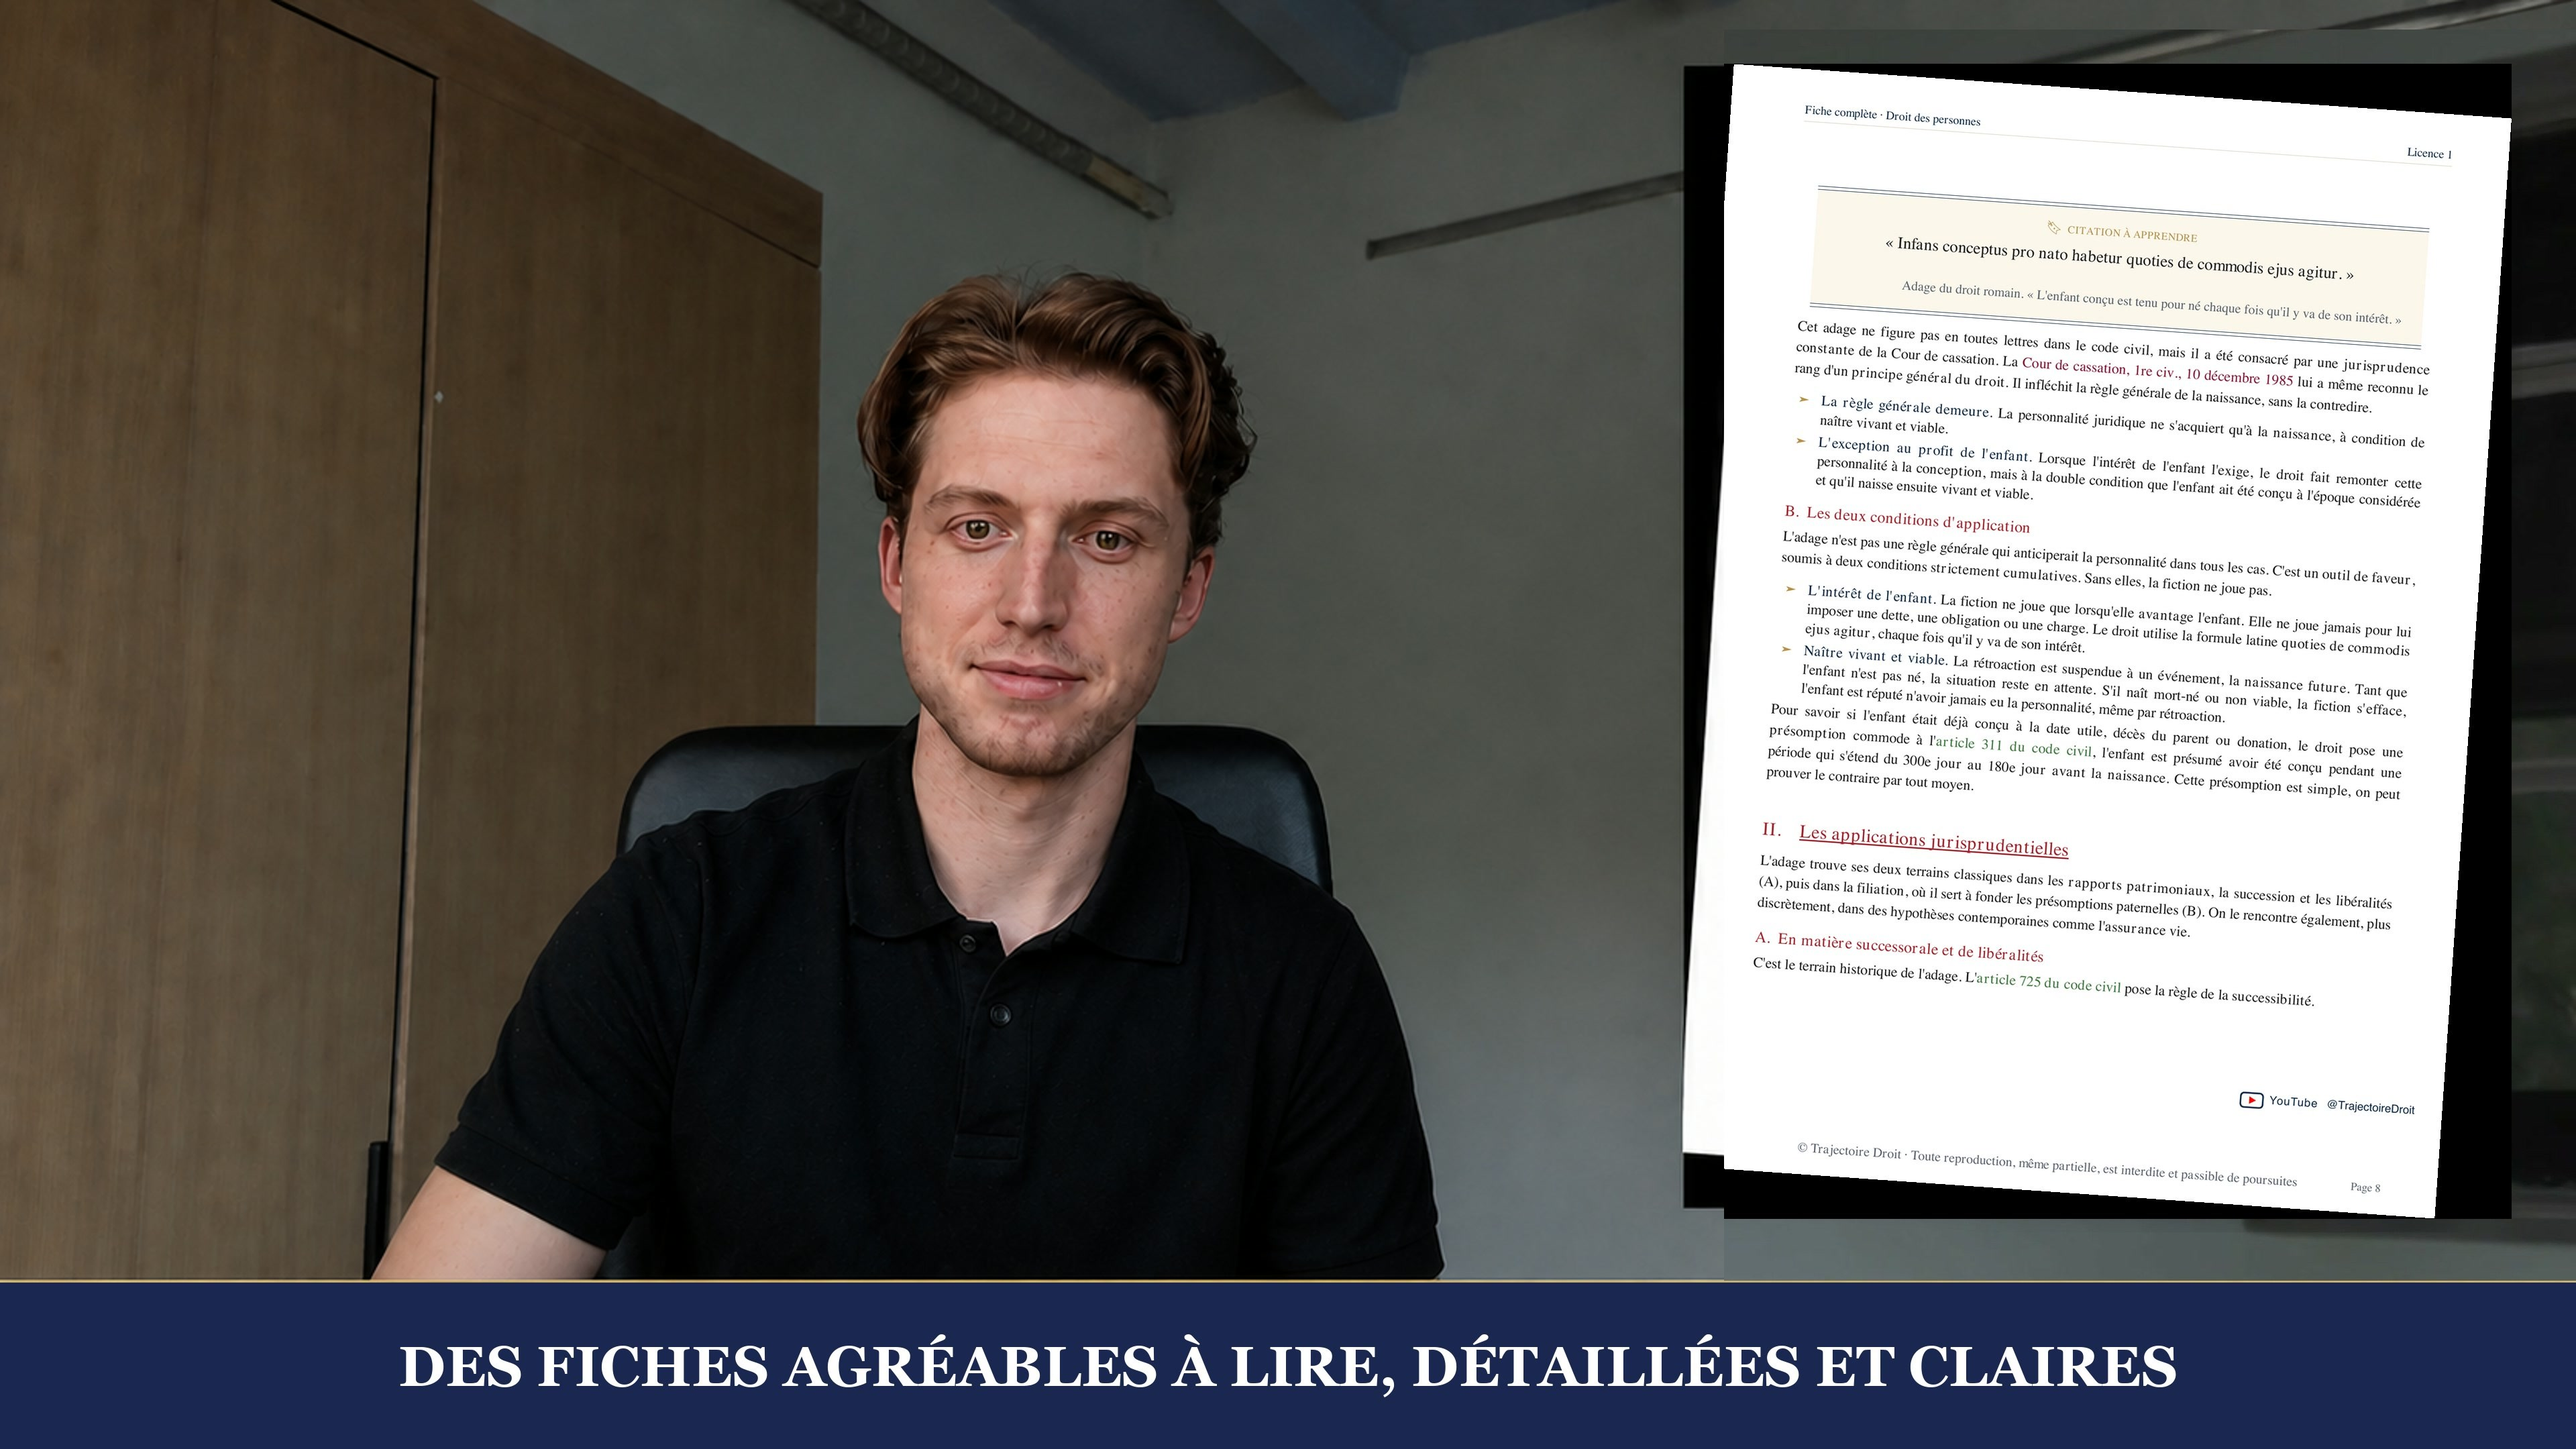
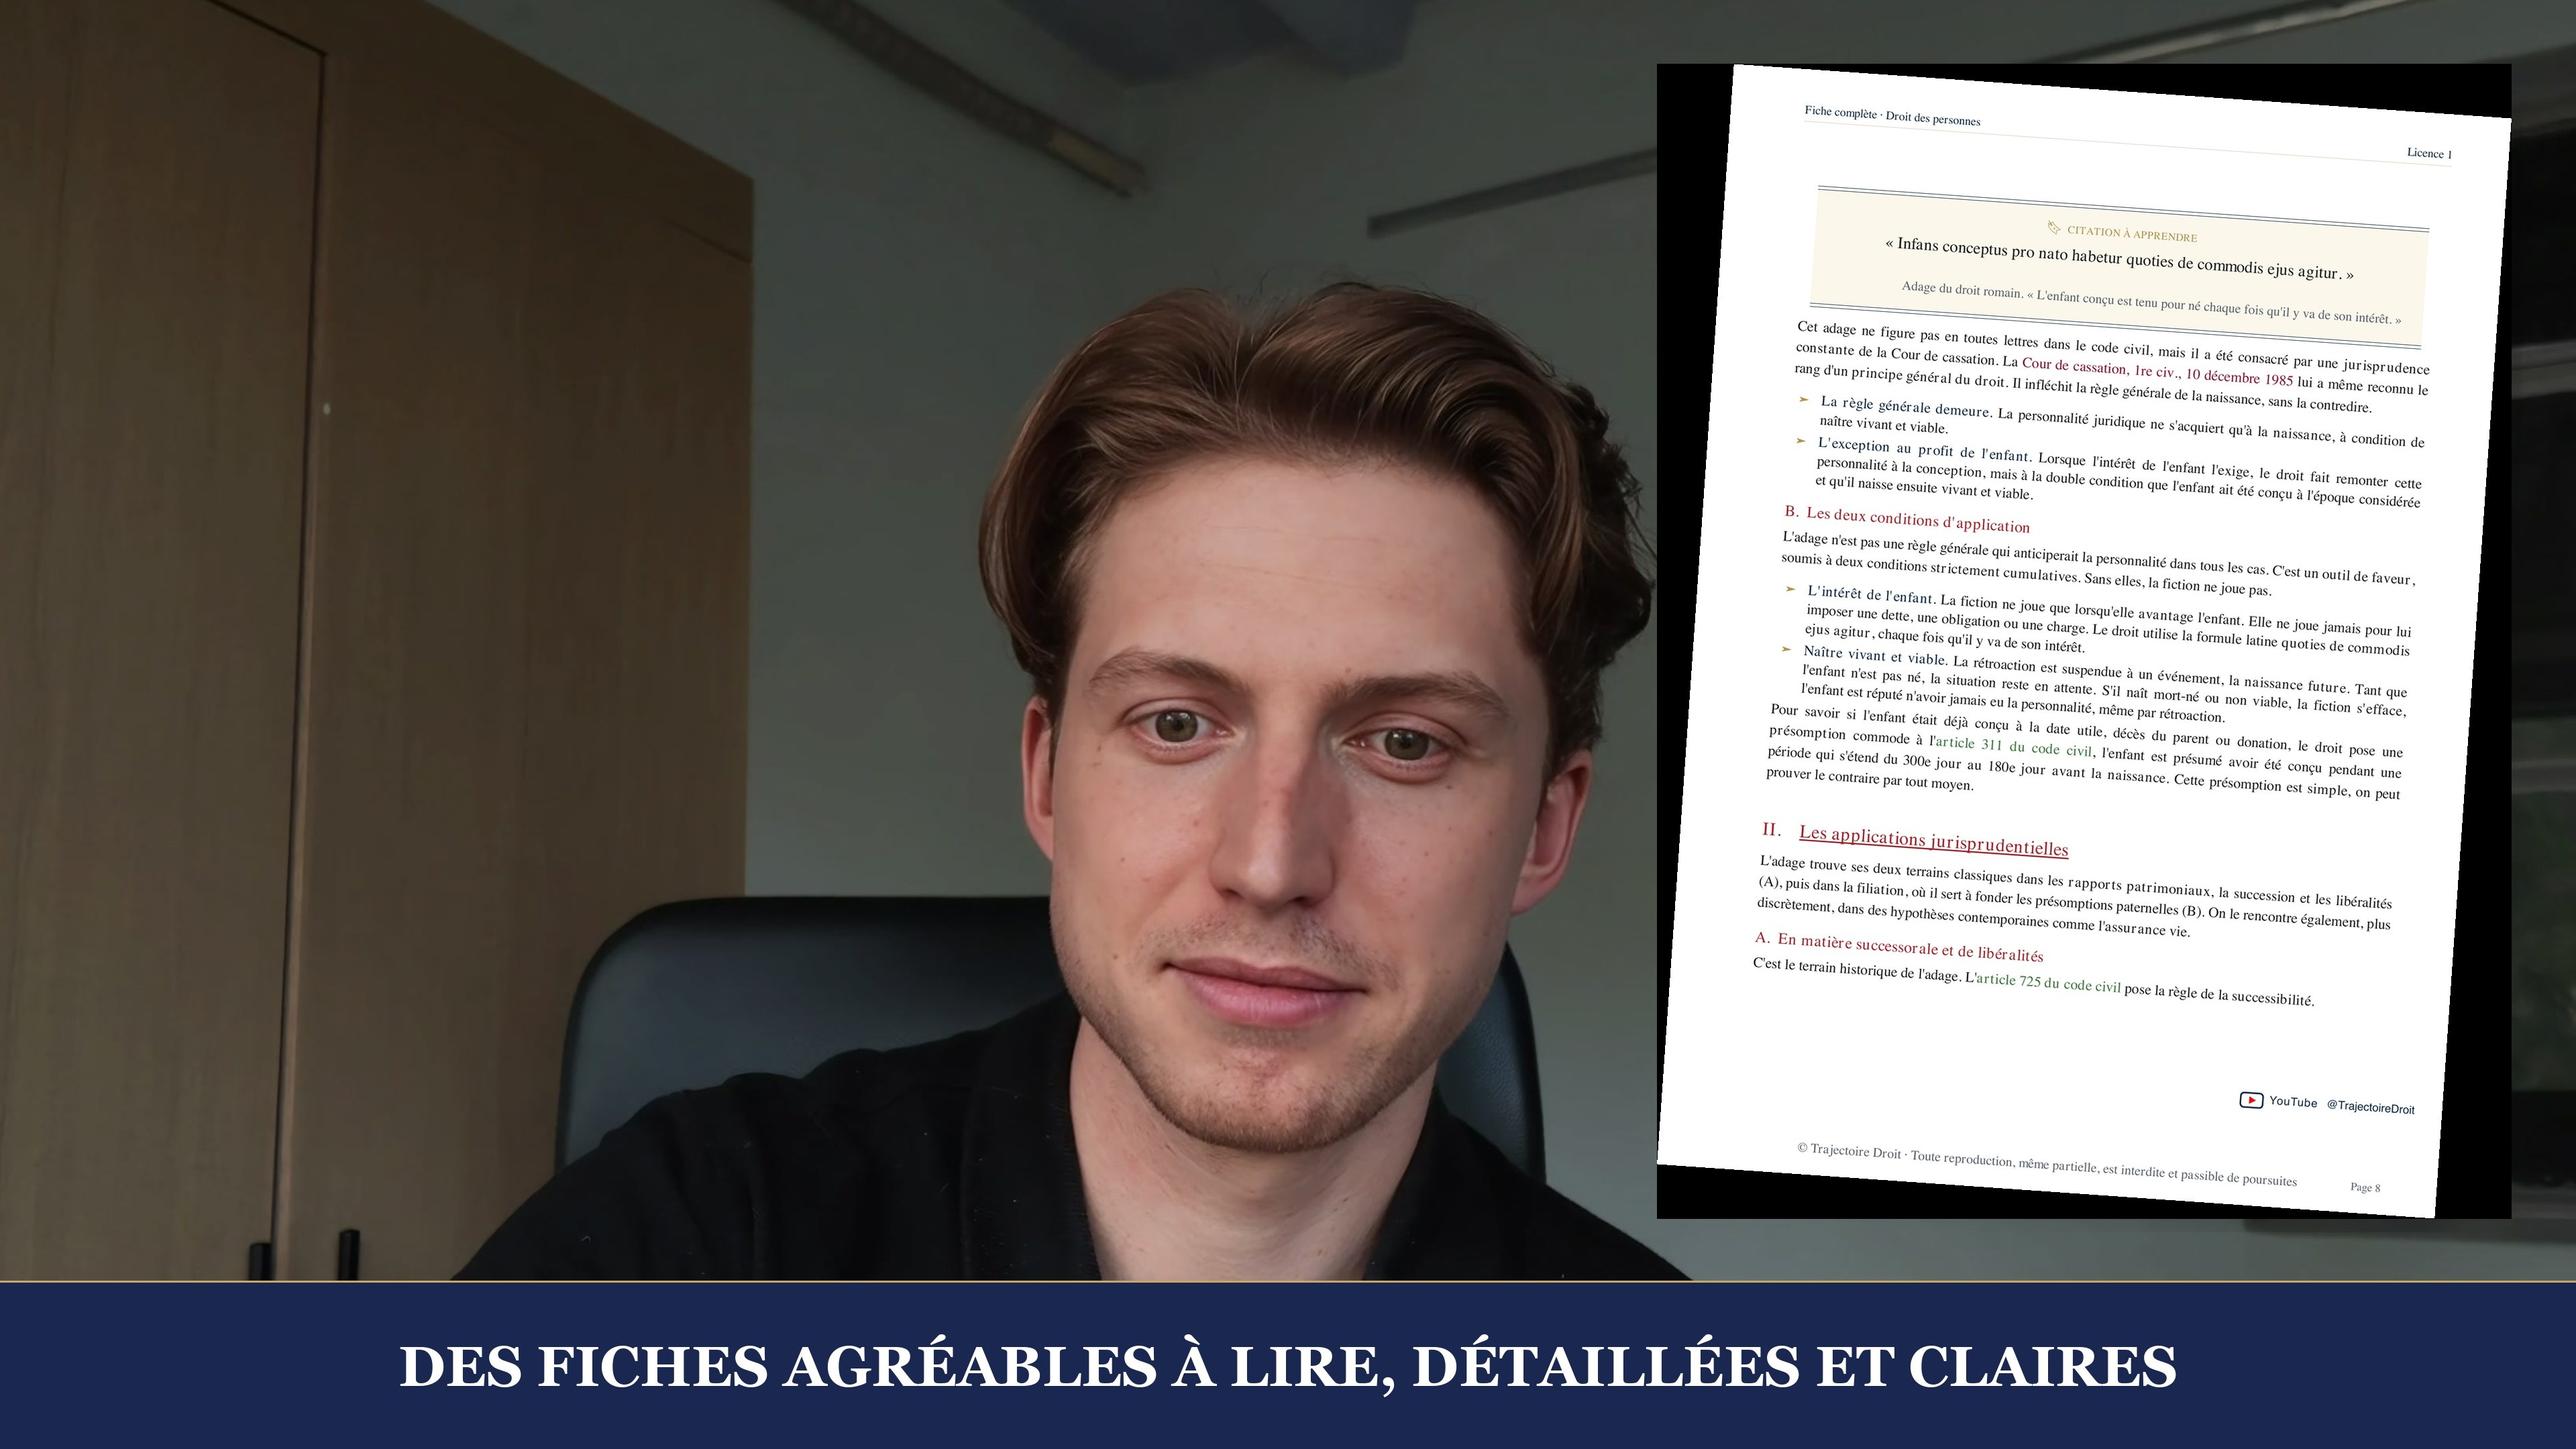
Revert "Met à jour le poster vidéo de la page d'accueil"
This reverts commit d23d2fa3e5897570c0694b91906bc1dca9b92aee.

diff --git a/index.html b/index.html
@@ -354,7 +354,7 @@
                 <video class="fiche-preview__video"
                        controls
                        preload="metadata"
-                       poster="assets/hero-video-produits-poster.jpg?v=e2f555e4">
+                       poster="assets/hero-video-produits-poster.jpg?v=6e152b1c">
                   <source src="https://pub-45b53167be7548aca62650d34a771b47.r2.dev/tjd/video/vue-ensemble-produits.mp4" type="video/mp4">
                 </video>
               </div>
